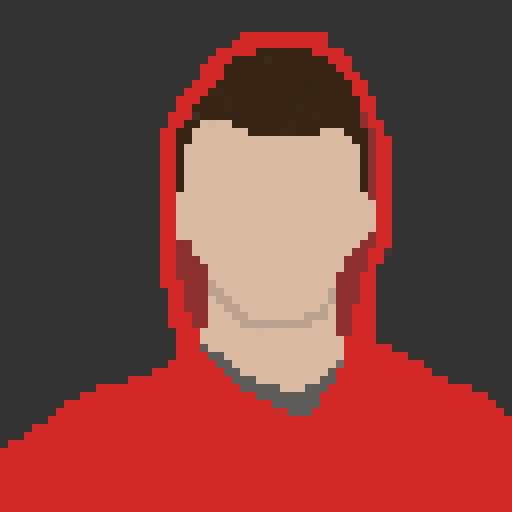
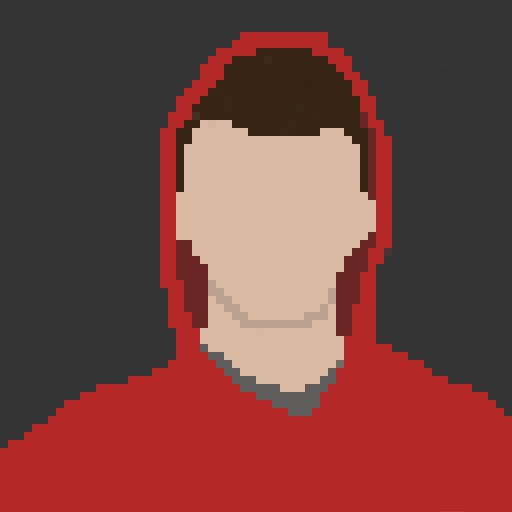
Updated 404 Page (#605)
* Updates

* Fixed Links Opening in new tab

* Trying & failing

* Trying & failing pt 2

* Fixed Rihanna picture

* Made Janky 404 Page

* Made 404 adaptibe to different page sizes and added back to home button

* Update CJ picture to fit color

* Fix 404 redirect

Had testing redirect funtion

---------

diff --git a/css/404.sass b/css/404.sass
@@ -2,6 +2,7 @@
 ---
 $grey: #333
 $vaered: #d12727
+$white: #fff
 $basicchars: U+0000-00FF
 
 @font-face
@@ -16,46 +17,49 @@ $basicchars: U+0000-00FF
 
 html, body
     height: 100%
+    overflow-x: hidden
+    overflow-y: hidden
 
 body
     font-family: 'Adam', 'Roboto', sans-serif
     background-color: $grey
-    color: #222
+    color: $white
     height: 100vh
-    padding: 50px
     text-align: center
     display: flex
-    justify-content: center
-    align-items: center
     flex-direction: column
 
-h1
-    font-size: 30vw
-    margin: 0
-    a
-        color: #222
-        text-decoration: none
-    span
+.left
+    img
+        padding-left: 10%
+        padding-right: 40%
+        width: 100%
+
+.right
+    padding-left: 40%
+    margin-top: -20%
+
+    h1
+        padding-top: 10px
+        padding-bottom: 20px
+        font-size: 40px
+        margin: 0
+        color: $white
+
+    h2
+        font-size: 55px
         color: $vaered
-        display: inline-block
-        &::after
-            width: 22vw
-            display: inline-block
-            content: '4'
-            animation: 1s linear infinite cycle
+    h4
+        padding-top: 20px
+        font-size: 15px
+        color: #4b4b4b
 
-@-webkit-keyframes cycle
-    0%
-        content: '4'
-    100%
-        content: '0'
-
-@keyframes cycle
-    0%
-        content: '4'
-    100%
-        content: '0'
-
-h3
-    font-size: 30px
-    max-width: 7.5in
+    .button
+        font-family: 'Adam'
+        padding: 12px 10px
+        text-align: right
+        margin: 20px
+        text-decoration: none
+        background: $vaered
+        color: white
+        border-radius: 7px

diff --git a/404.html b/404.html
@@ -9,11 +9,34 @@
     <meta name="theme-color" content="#d12727">
     <link rel="icon" type="image/x-icon" href="/assets/img/favicon.ico">
     <link rel="icon" type="image/png" href="/assets/img/favicon.png">
+    <script>
+        window.onload = function () {
+            var count = 30;
+            var countdownElement = document.querySelector('h4');
+            var countdownInterval = setInterval(function () {
+                count--;
+                countdownElement.textContent = "Back to home in: " + count;
+                if (count <= 0) {
+                    clearInterval(countdownInterval);
+                    window.location.href = "/";
+                }
+            }, 1000);
+        };
+    </script>
 </head>
 
 <body>
-    <h1><a href="/">1<span></span>18</a></h1>
-    <h3>This page cannot be found.</h3>
+    <div class="container">
+        <div class="left">
+            <img src="/images/2023-404.png" alt="404 Image">
+        </div>
+        <div class="right">
+            <h2>Oh No!</h2>
+            <h1>F.R.E.D. could not find that</h1>
+            <a href="/" class="button">Back To Home</a>
+            <h4>Back to home in: 30</h4>
+        </div>
+    </div>
 </body>
 
 </html>
